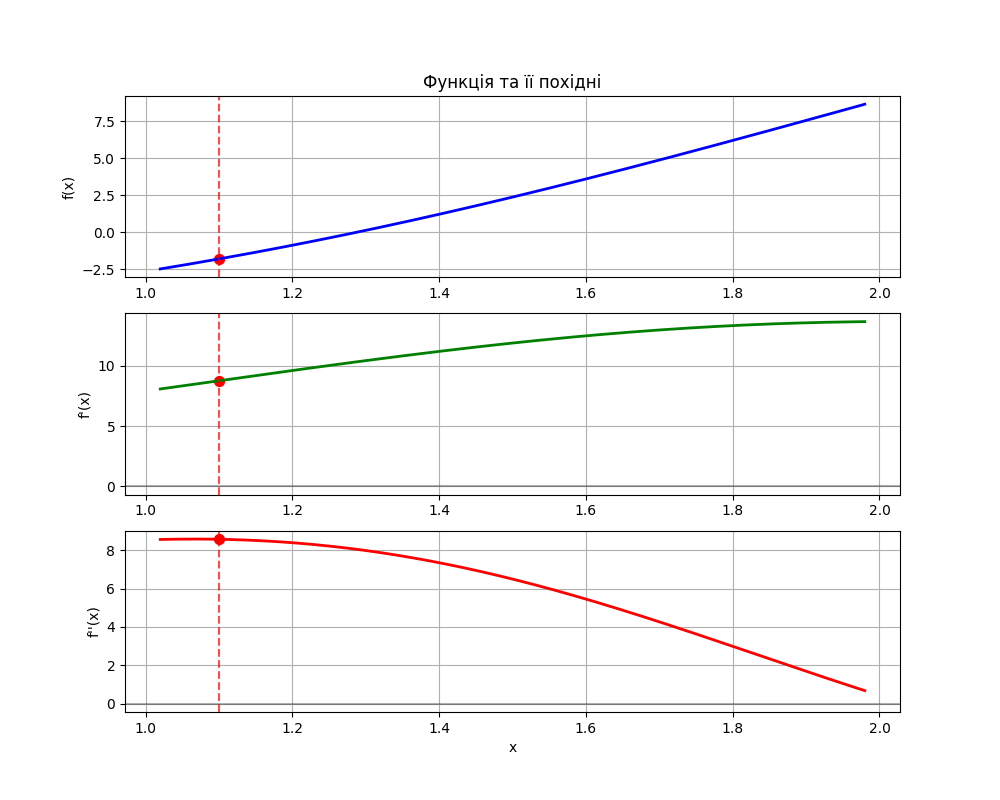
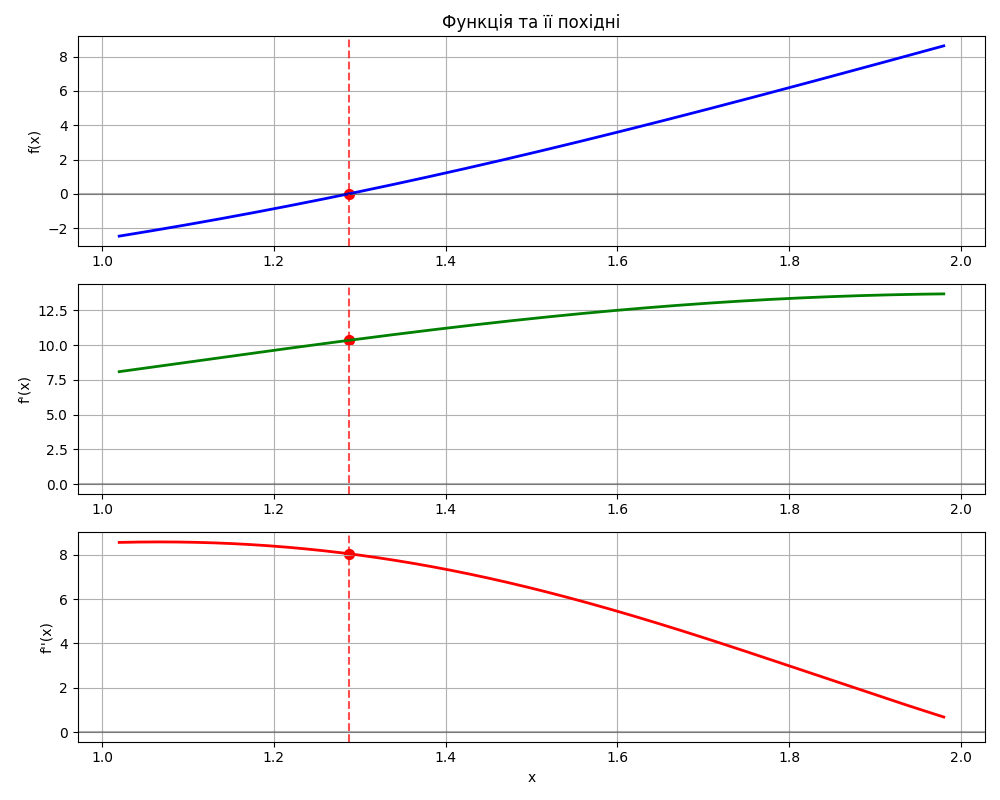
FIX: Lab3 method updated

diff --git a/IO_lab3.py b/IO_lab3.py
@@ -6,201 +6,163 @@ import matplotlib.pyplot as plt
 # ======= 1. Символьне визначення функції та автоматичне обчислення похідних =======
 
 def define_function_and_derivatives():
-    """Визначення функції та її похідних за допомогою sympy"""
+    """Визначення функції та її похідної за допомогою sympy"""
     # Створюємо символьну змінну x
-    x = sp.Symbol('x')
-    
+    x = sp.Symbol('x') 
     # Визначаємо функцію (тут можна задавати іншу функцію за бажанням)
     # Мій варіант 16: f(x) = 2^(sin x) * 3^x - 8
     expr = 2**(sp.sin(x)) * 3**x - 8
-    
-    # Обчислюємо першу та другу похідні
+    # Обчислюємо першу похідну
     expr_diff = sp.diff(expr, x)
-    expr_diff2 = sp.diff(expr_diff, x)
-    
     # Перетворюємо вирази у функції Python
     f = sp.lambdify(x, expr, 'math')
     df = sp.lambdify(x, expr_diff, 'math')
-    d2f = sp.lambdify(x, expr_diff2, 'math')
-    
     # Вивід формул (для перевірки)
     print(f"Функція мого варіанту 16: f(x) = 2^(sin x) * 3^x - 8")
-    print(f"Перша та друга похідні обчислені автоматично")
+    print(f"Перша похідна: {expr_diff}")
     print("-" * 60)
-    
-    return f, df, d2f
+    return f, df
 
-# ======= 2. Інтервальний метод Ньютона =======
+# ======= 2. Метод Ньютона для пошуку кореня функції (де f(x) = 0) ======
 
-def interval_newton_min(f, df, d2f, a, b, epsilon=1e-6, max_iter=100):
-    """
-    Інтервальний метод Ньютона для пошуку мінімуму функції
-    Параметри:
-    f - функція
-    df - перша похідна
-    d2f - друга похідна
-    a, b - межі початкового інтервалу
-    epsilon - точність (критерій зупинки)
-    max_iter - максимальна кількість ітерацій
-    
-    Повертає:
-    X - кінцевий інтервал, де знаходиться мінімум
-    iterations - кількість виконаних ітерацій
-    history - історія ітерацій
-    """
+def interval_newton_root(f, df, a, b, epsilon=1e-6, max_iter=100):
+    #Інтервальний метод Ньютона для пошуку кореня функції f(x) = 0 на інтервалі [a, b]
+    # Перевіряємо, чи існує корінь на інтервалі за теоремою Больцано
+    if f(a) * f(b) > 0:
+        print("Увага: функція не змінює знак на інтервалі, корінь може не існувати.")
+        print("Будемо шукати точку, де значення функції найближче до нуля.")
     # Початковий інтервал
     X = [a, b]
     # Лічильник ітерацій та історія
     iterations = 0
     history = []
-    # Перевіряємо, чи похідна змінює знак на інтервалі
-    df_a = df(a)
-    df_b = df(b)
-    # Якщо похідна не змінює знак, мінімум може бути лише на межі інтервалу
-    if df_a * df_b > 0:
-        print("Увага: перша похідна не змінює знак на інтервалі.")
-        print("Мінімум може бути лише на межі інтервалу.")
-        # Перевіряємо, на якій межі мінімум
-        if f(a) <= f(b):
-            return [a, a], 0, []  # Мінімум у точці a
-        else:
-            return [b, b], 0, []  # Мінімум у точці b
     # Основний цикл методу
     for i in range(max_iter):
-        iterations += 1
+        iterations += 1       
         # Знаходимо середину інтервалу
         m_X = (X[0] + X[1]) / 2
-        # Обчислюємо значення першої похідної в середині
+        # Обчислюємо значення функції та її похідної в середині
+        f_m = f(m_X)
         df_m = df(m_X)
-        # Знаходимо мінімальне значення другої похідної на інтервалі
-        d2f_min = float('inf')
-        d2f_max = float('-inf')
-        # Розбиваємо інтервал на 20 точок для обчислення мінімуму другої похідної
-        num_points = 20
-        step = (X[1] - X[0]) / (num_points - 1) if num_points > 1 else 0
-
-        for j in range(num_points):
-            x_j = X[0] + j * step
-            d2f_j = d2f(x_j)
-            d2f_min = min(d2f_min, d2f_j)
-            d2f_max = max(d2f_max, d2f_j)        
-        # Перевіряємо умову існування мінімуму (друга похідна > 0)
-        if d2f_min <= 0:
-            print(f"Ітерація {iterations}: Увага! f''(x) ≤ 0 на деяких ділянках.")
-            print("Функція може мати не мінімум, а максимум або точку перегину.")
-        # Обчислюємо нове наближення за формулою Ньютона:
-        # N = m - f'(m) / f''(m), але для гарантованої локалізації
-        # використовуємо мінімальне значення f''(x)
-        N = m_X - df_m / d2f_min
-        # Знаходимо перетин з поточним інтервалом
-        new_X = [max(X[0], min(N, X[1])), min(X[1], max(N, X[0]))]
+        # Перевіряємо критерій збіжності за значенням функції
+        if abs(f_m) < epsilon:
+            print(f"Знайдено корінь функції: f({m_X:.6f}) ≈ 0")
+            break
+        # Перевіряємо можливість застосування методу Ньютона
+        if abs(df_m) < epsilon:
+            print("Похідна близька до нуля, метод може розбігатися.")
+            break
+        # Обчислюємо наступну точку за формулою Ньютона
+        N = m_X - f_m / df_m
+        # Обмежуємо точку Ньютона інтервалом [a, b]
+        N = max(a, min(b, N))
+        # Обчислюємо значення функції в точці Ньютона
+        f_N = f(N)
+        # Оновлюємо інтервал відповідно до знаку функції (спрощена логіка)
+        if f_m * f_N <= 0:  # Функція змінює знак між m_X і N
+            new_X = [min(m_X, N), max(m_X, N)]
+        elif f(X[0]) * f_N <= 0:  # Функція змінює знак між X[0] і N
+            new_X = [X[0], N]
+        else:  # Функція змінює знак між N і X[1]
+            new_X = [N, X[1]]
         # Зберігаємо дані про ітерацію
         history.append({
             'iteration': iterations,
             'interval': X.copy(),
             'midpoint': m_X,
+            'f_midpoint': f_m,
             'df_midpoint': df_m,
-            'd2f_min': d2f_min,
-            'd2f_max': d2f_max,
+            'newton_point': N,
+            'f_newton_point': f_N,
             'new_interval': new_X.copy(),
             'width': new_X[1] - new_X[0]
         })
-        # Виводимо інформацію про ітерацію (з округленням)
+        # Виводимо інформацію про ітерацію
         print(f"Ітерація {iterations}:")
-        print(f"  Інтервал: [{X[0]:.4f}, {X[1]:.4f}], ширина: {X[1]-X[0]:.4f}")
-        print(f"  Середина: {m_X:.4f}, f({m_X:.4f}) = {f(m_X):.4f}")
-        print(f"  f'({m_X:.4f}) = {df_m:.4f}")
-        print(f"  min f''(x) = {d2f_min:.4f}, max f''(x) = {d2f_max:.4f}")
-        print(f"  Новий інтервал: [{new_X[0]:.4f}, {new_X[1]:.4f}], ширина: {new_X[1]-new_X[0]:.4f}")
+        print(f"  Інтервал: [{X[0]:.6f}, {X[1]:.6f}], ширина: {X[1]-X[0]:.6f}")
+        print(f"  Середина: {m_X:.6f}, f({m_X:.6f}) = {f_m:.6f}")
+        print(f"  f'({m_X:.6f}) = {df_m:.6f}")
+        print(f"  Точка Ньютона: {N:.6f}, f({N:.6f}) = {f_N:.6f}")
+        print(f"  Новий інтервал: [{new_X[0]:.6f}, {new_X[1]:.6f}], ширина: {new_X[1]-new_X[0]:.6f}")
         print()
-        
-        # Перевіряємо критерій збіжності (ширина інтервалу < epsilon)
+        # Об'єднаний критерій зупинки: досягнута точність або занадто малий інтервал
         if abs(new_X[1] - new_X[0]) < epsilon:
             X = new_X
             break
         # Оновлюємо інтервал для наступної ітерації
         X = new_X
-    # Якщо вийшли з циклу через досягнення максимальної кількості ітерацій
-    if iterations == max_iter and abs(X[1] - X[0]) >= epsilon:
+    # Якщо вийшли з циклу без досягнення точності
+    if iterations == max_iter:
         print("Увага: досягнуто максимальну кількість ітерацій без досягнення потрібної точності.")
     return X, iterations, history
 
 # ======= 3. Функції для візуалізації =======
 
 def plot_function_and_result(f, a, b, result_interval, history=None):
-    """Візуалізація функції та результату пошуку мінімуму"""
+    """Візуалізація функції та результату пошуку кореня"""
     # Створюємо фігуру
     plt.figure(figsize=(10, 6))
-    # Точки для графіка (трохи розширюємо інтервал для кращої візуалізації)
+    # Точки для графіка
     x_vals = np.linspace(a - (b-a)*0.1, b + (b-a)*0.1, 1000)
     y_vals = [f(x) for x in x_vals]
-    # Будуємо графік функції
+    # Обчислюємо корінь як середину результуючого інтервалу
+    approx_root = (result_interval[0] + result_interval[1]) / 2
+    # Будуємо графік
     plt.plot(x_vals, y_vals, 'b-', linewidth=2, label='f(x)')
-    # Виділяємо початковий інтервал
+    plt.axhline(y=0, color='k', linestyle='-', alpha=0.3)
     plt.axvspan(a, b, alpha=0.1, color='gray', label='Початковий інтервал')
-    # Виділяємо результуючий інтервал
-    approx_min = (result_interval[0] + result_interval[1]) / 2
     plt.axvspan(result_interval[0], result_interval[1], alpha=0.3, color='r',
                label=f'Результуючий інтервал: [{result_interval[0]:.4f}, {result_interval[1]:.4f}]')
-    # Позначаємо точку мінімуму
-    plt.scatter([approx_min], [f(approx_min)], color='r', s=100, zorder=5,
-               label=f'Мінімум: x ≈ {approx_min:.4f}, f(x) ≈ {f(approx_min):.4f}')
-    # Якщо є історія ітерацій, показуємо процес збіжності
+    plt.scatter([approx_root], [f(approx_root)], color='r', s=100, zorder=5,
+               label=f'Корінь: x ≈ {approx_root:.4f}, f(x) ≈ {f(approx_root):.4f}')
+    # Відображаємо історію ітерацій, якщо вона надана
     if history and len(history) > 0:
         for i, step in enumerate(history):
             plt.axvspan(step['interval'][0], step['interval'][1], alpha=0.1, color='green')
-            plt.scatter([step['midpoint']], [f(step['midpoint'])], color='green', s=30, zorder=4)
-            plt.annotate(f"{i+1}", (step['midpoint'], f(step['midpoint'])), 
-                         xytext=(step['midpoint'], f(step['midpoint']) - 0.2),
-                         ha='center', fontsize=8)
+            plt.scatter([step['midpoint']], [step['f_midpoint']], color='green', s=30, zorder=4)
+            plt.annotate(f"{i+1}", (step['midpoint'], step['f_midpoint']), 
+                         xytext=(step['midpoint'], step['f_midpoint'] - 0.2),
+                         ha='center', fontsize=8)  
     # Налаштування графіка
     plt.grid(True)
     plt.xlabel('x')
     plt.ylabel('f(x)')
-    plt.title('Пошук мінімуму функції інтервальним методом Ньютона')
+    plt.title('Пошук кореня функції інтервальним методом Ньютона')
     plt.legend()
+    plt.tight_layout()
     # Зберігаємо та показуємо графік
     plt.savefig('newton_method_result.png')
-    plt.tight_layout()
     plt.show()
 
-def plot_derivatives(f, df, d2f, a, b, approx_min):
-    """Візуалізація функції та її похідних"""
+def plot_function_and_derivative(f, df, a, b, approx_root):
+    """Візуалізація функції та її похідної"""
     # Створюємо фігуру
-    plt.figure(figsize=(10, 8))
+    plt.figure(figsize=(10, 6))  
     # Точки для графіків
     x_vals = np.linspace(a - (b-a)*0.1, b + (b-a)*0.1, 1000)
     y_vals = [f(x) for x in x_vals]
     y_df_vals = [df(x) for x in x_vals]
-    y_d2f_vals = [d2f(x) for x in x_vals]
     # Графік функції
-    plt.subplot(3, 1, 1)
+    plt.subplot(2, 1, 1)
     plt.plot(x_vals, y_vals, 'b-', linewidth=2)
-    plt.axvline(x=approx_min, color='r', linestyle='--', alpha=0.7)
-    plt.scatter([approx_min], [f(approx_min)], color='r', s=50)
+    plt.axhline(y=0, color='k', linestyle='-', alpha=0.3)
+    plt.axvline(x=approx_root, color='r', linestyle='--', alpha=0.7)
+    plt.scatter([approx_root], [f(approx_root)], color='r', s=50)
     plt.grid(True)
     plt.ylabel('f(x)')
-    plt.title('Функція та її похідні')
+    plt.title('Функція та її похідна')
     # Графік першої похідної
-    plt.subplot(3, 1, 2)
+    plt.subplot(2, 1, 2)
     plt.plot(x_vals, y_df_vals, 'g-', linewidth=2)
     plt.axhline(y=0, color='k', linestyle='-', alpha=0.3)
-    plt.axvline(x=approx_min, color='r', linestyle='--', alpha=0.7)
-    plt.scatter([approx_min], [df(approx_min)], color='r', s=50)
+    plt.axvline(x=approx_root, color='r', linestyle='--', alpha=0.7)
+    plt.scatter([approx_root], [df(approx_root)], color='r', s=50)
     plt.grid(True)
     plt.ylabel('f\'(x)')
-    # Графік другої похідної
-    plt.subplot(3, 1, 3)
-    plt.plot(x_vals, y_d2f_vals, 'r-', linewidth=2)
-    plt.axhline(y=0, color='k', linestyle='-', alpha=0.3)
-    plt.axvline(x=approx_min, color='r', linestyle='--', alpha=0.7)
-    plt.scatter([approx_min], [d2f(approx_min)], color='r', s=50)
-    plt.grid(True)
-    plt.ylabel('f\'\'(x)')
     plt.xlabel('x')
     # Зберігаємо та показуємо графік
-    plt.savefig('derivatives.png')
     plt.tight_layout()
+    plt.savefig('derivative.png')
     plt.show()
 
 # ======= 4. Основна функція =======
@@ -211,73 +173,48 @@ def main():
     a = 1.1
     b = 1.9
     epsilon = 1e-6    # Точність
-
-    print("Інтервальний метод Ньютона для пошуку мінімуму функції")
+    print("Інтервальний метод Ньютона для пошуку кореня функції")
     print("-" * 60)
-    
-    # Визначаємо функцію та її похідні
-    f, df, d2f = define_function_and_derivatives()
-    
-    print(f"Пошук мінімуму на інтервалі [{a}, {b}]")
+    # Визначаємо функцію та її похідну
+    f, df = define_function_and_derivatives()
+    print(f"Пошук кореня на інтервалі [{a}, {b}]")
     print(f"Точність: {epsilon}")
     print("-" * 60)
-    
-    # Аналіз функції на інтервалі (з округленням)
+    # Аналіз функції на інтервалі
     print(f"Значення функції на кінцях інтервалу:")
     print(f"f({a}) = {f(a):.4f}")
     print(f"f({b}) = {f(b):.4f}")
     print(f"Значення першої похідної:")
     print(f"f'({a}) = {df(a):.4f}")
     print(f"f'({b}) = {df(b):.4f}")
-    print(f"Значення другої похідної:")
-    print(f"f''({a}) = {d2f(a):.4f}")
-    print(f"f''({b}) = {d2f(b):.4f}")
     print("-" * 60)
-    
-    # Перевірка умов існування мінімуму
-    if df(a) * df(b) < 0:
-        print("Перша похідна змінює знак на інтервалі - можливо існує внутрішня точка мінімуму.")
+    # Аналізуємо функцію на інтервалі
+    print("Аналіз функції на інтервалі:")
+    if f(a) * f(b) < 0:
+        print("Функція змінює знак на інтервалі - існує корінь.")
     else:
-        print("Перша похідна не змінює знак на інтервалі - мінімум може бути лише на межі.")
-    
-    if d2f(a) > 0 and d2f(b) > 0:
-        print("Друга похідна додатна на кінцях інтервалу - функція може мати мінімум.")
-    else:
-        print("Увага: друга похідна не є строго додатною на кінцях інтервалу.")
+        print("Функція не змінює знак на інтервалі - спробуємо знайти точку, де функція найближча до нуля.")
     print("-" * 60)
-    
-    # Вимірюємо час виконання
-    start_time = time.time()
-    
     # Застосовуємо інтервальний метод Ньютона
     print("Застосування інтервального методу Ньютона:")
-    result_interval, iterations, history = interval_newton_min(f, df, d2f, a, b, epsilon)
-    
-    # Час виконання
-    execution_time = time.time() - start_time
-    
-    # Виводимо результати (з округленням)
+    result_interval, iterations, history = interval_newton_root(f, df, a, b, epsilon)
+    # Виводимо результати
     print("-" * 60)
     print("Результати:")
     print(f"Початковий інтервал: [{a}, {b}]")
     print(f"Результуючий інтервал: [{result_interval[0]:.6f}, {result_interval[1]:.6f}]")
     print(f"Ширина результуючого інтервалу: {result_interval[1] - result_interval[0]:.6f}")
-    
-    # Оцінка точки мінімуму
-    approx_min = (result_interval[0] + result_interval[1]) / 2
-    print(f"Оцінка точки мінімуму: x ≈ {approx_min:.6f}")
-    print(f"Значення функції в точці мінімуму: f({approx_min:.6f}) = {f(approx_min):.6f}")
-    print(f"Значення першої похідної: f'({approx_min:.6f}) = {df(approx_min):.6f}")
-    print(f"Значення другої похідної: f''({approx_min:.6f}) = {d2f(approx_min):.6f}")
-    
+    # Оцінка точки кореня
+    approx_root = (result_interval[0] + result_interval[1]) / 2
+    print(f"Оцінка точки кореня: x ≈ {approx_root:.6f}")
+    print(f"Значення функції в точці: f({approx_root:.6f}) = {f(approx_root):.6f}")
+    print(f"Значення першої похідної: f'({approx_root:.6f}) = {df(approx_root):.6f}")    
     print(f"Кількість ітерацій: {iterations}")
-    print(f"Час виконання: {execution_time:.6f} секунд")
-    
     # Візуалізація результатів
     try:
         plot_function_and_result(f, a, b, result_interval, history)
-        plot_derivatives(f, df, d2f, a, b, approx_min)
-        print("\nГрафіки збережені у файлах 'newton_method_result.png' та 'derivatives.png'")
+        plot_function_and_derivative(f, df, a, b, approx_root)
+        print("\nГрафіки збережені у файлах 'newton_method_result.png' та 'derivative.png'")
     except Exception as e:
         print(f"\nПомилка при візуалізації: {e}")
         print("Переконайтеся, що встановлено бібліотеку matplotlib: pip install matplotlib")
